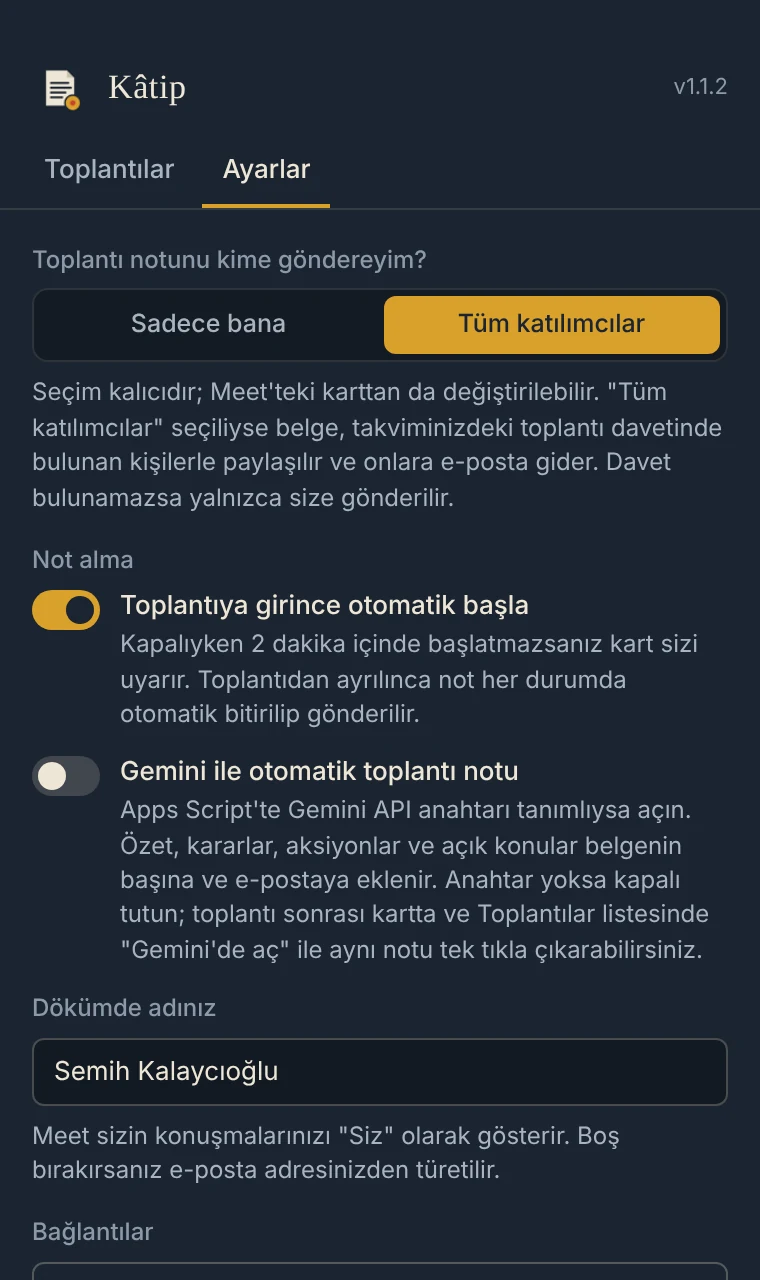
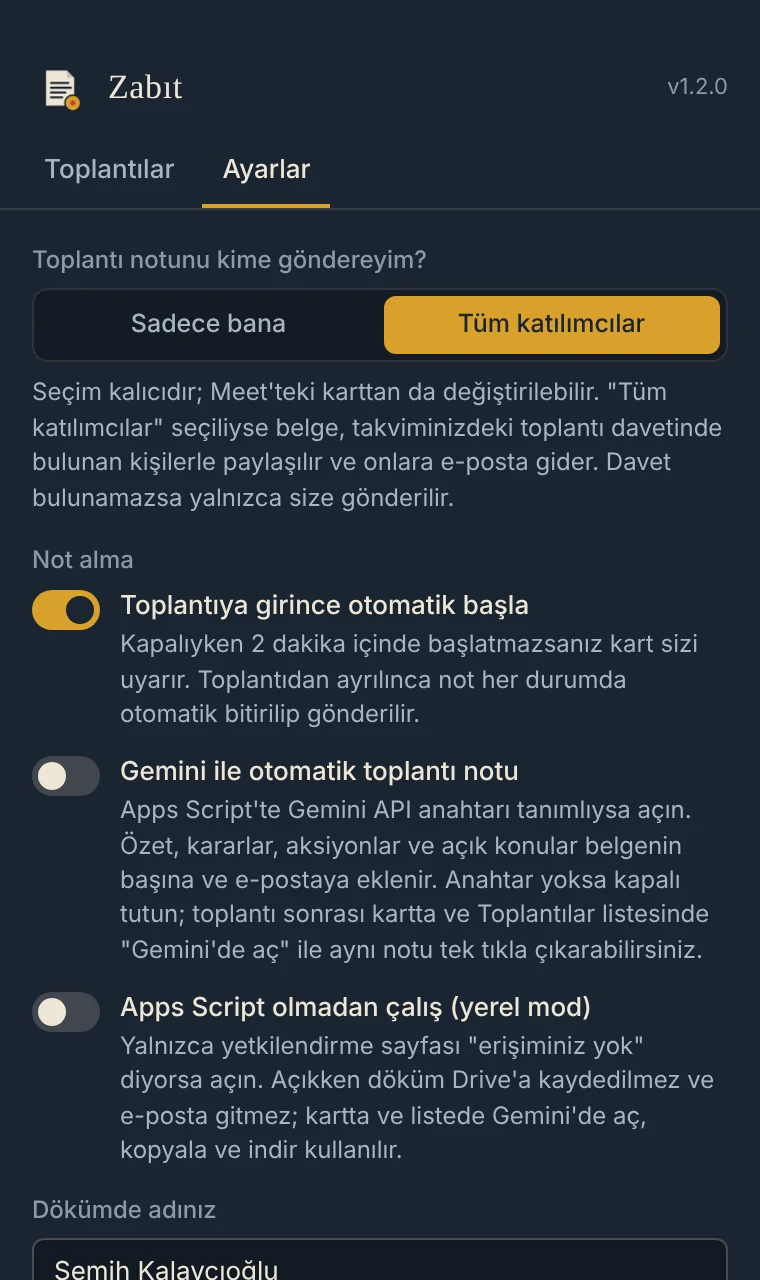
Katip > Zabıt

diff --git a/index.html b/index.html
@@ -3,12 +3,12 @@
 <head>
   <meta charset="utf-8">
   <meta name="viewport" content="width=device-width, initial-scale=1">
-  <title>Kâtip · Türkçe Meet toplantıları için otomatik döküm</title>
-  <meta name="description" content="Kâtip, Türkçe Google Meet toplantılarını altyazıdan yazıya döker, dökümü Drive'a kaydeder, size ya da katılımcılara gönderir ve tek tıkla Gemini'ye aktarır.">
-  <meta property="og:title" content="Kâtip · Türkçe Meet toplantıları için otomatik döküm">
+  <title>Zabıt · Türkçe Meet toplantılarının zabıt kâtibi</title>
+  <meta name="description" content="Zabıt, Türkçe Google Meet toplantılarını altyazıdan yazıya döker, dökümü Drive'a kaydeder, size ya da katılımcılara gönderir ve tek tıkla Gemini'ye aktarır.">
+  <meta property="og:title" content="Zabıt · Türkçe Meet toplantıları için otomatik döküm">
   <meta property="og:description" content="Meet altyazısından döküm, Drive'a kayıt, katılımcılara e-posta ve tek tıkla Gemini.">
-  <meta property="og:image" content="https://segelferd.github.io/katip/assets/og.png">
-  <meta property="og:url" content="https://segelferd.github.io/katip/">
+  <meta property="og:image" content="https://segelferd.github.io/zabit/assets/og.png">
+  <meta property="og:url" content="https://segelferd.github.io/zabit/">
   <meta name="twitter:card" content="summary_large_image">
   <link rel="icon" type="image/png" href="assets/favicon.png">
   <style>
@@ -123,7 +123,7 @@
 
 <header class="ust">
   <div class="kap">
-    <a class="marka" href="#"><img src="assets/icon128.png" alt=""><b>Kâtip</b></a>
+    <a class="marka" href="#"><img src="assets/icon128.png" alt=""><b>Zabıt</b></a>
     <nav class="menu" aria-label="Sayfa içi">
       <a href="#ozellikler">Özellikler</a>
       <a href="#nasil">Nasıl çalışır</a>
@@ -137,18 +137,18 @@
   <section class="kahraman">
     <div class="kap">
       <div>
-        <span class="rozet">Kurum içi · Davetle erişim · Chrome</span>
-        <h1>Türkçe toplantılarınızın <em>kâtibi</em></h1>
-        <p class="giris">Kâtip, Google Meet altyazısını konuşmacı ve saatle birlikte yazıya döker. Toplantıdan çıktığınız anda
+        <span class="rozet">Kurum içi · Bağlantıyla erişim · Chrome</span>
+        <h1>Türkçe toplantılarınızın <em>zabıt kâtibi</em></h1>
+        <p class="giris">Zabıt, Google Meet altyazısını konuşmacı ve saatle birlikte yazıya döker. Toplantıdan çıktığınız anda
           dökümü Drive'ınıza kaydeder, size ya da tüm katılımcılara gönderir ve tek tıkla Gemini'ye aktarır.</p>
         <div class="dugmeler">
           <a class="btn ana" href="#nasil">Nasıl kurulur</a>
           <a class="btn ikincil" href="gizlilik.html">Gizlilik politikası</a>
         </div>
-        <p class="not">Toplantıya bot eklemez, ses kaydı almaz. Yalnızca yetkilendirilmiş kullanıcılar kurabilir.</p>
+        <p class="not">Toplantıya bot eklemez, ses kaydı almaz. Mağazada listelenmez; kurulum bağlantısı ekibe ayrıca iletilir.</p>
       </div>
       <div class="cerceve"><img src="assets/sahne-kayit.webp" width="1600" height="1000"
-        alt="Meet toplantısında sağ üstte Kâtip kartı: canlı döküm, önemli an ve not ekleme düğmeleri"></div>
+        alt="Meet toplantısında sağ üstte Zabıt kartı: canlı döküm, önemli an ve not ekleme düğmeleri"></div>
     </div>
   </section>
 
@@ -157,7 +157,7 @@
       <div class="ust-baslik">
         <span class="etiket">Özellikler</span>
         <h2>Not tutmayı bırakın, <em>toplantıya odaklanın</em></h2>
-        <p>Meet'in kendi not alma özelliği Türkçe toplantıları desteklemiyor. Kâtip bu boşluk için yapıldı.</p>
+        <p>Meet'in kendi not alma özelliği Türkçe toplantıları desteklemiyor. Zabıt bu boşluk için yapıldı.</p>
       </div>
       <div class="ozellikler">
         <div class="ozellik"><div class="simge"><svg viewBox="0 0 24 24" fill="none" stroke="currentColor" stroke-width="2" stroke-linecap="round"><path d="M4 6h16M4 12h10M4 18h13"/></svg></div>
@@ -190,14 +190,14 @@
           </ul>
         </div>
         <div class="gorsel"><div class="cerceve dar"><img src="assets/kart-kayit.webp" width="576" height="1037" loading="lazy"
-          alt="Kayıt sırasında Kâtip kartı: süre, cümle ve işaret sayısı, dil satırı, canlı döküm"></div></div>
+          alt="Kayıt sırasında Zabıt kartı: süre, cümle ve işaret sayısı, dil satırı, canlı döküm"></div></div>
       </div>
 
       <div class="vitrin ters">
         <div>
           <span class="etiket">Toplantıdan sonra</span>
           <h3>Belge Drive'da, bağlantı gelen kutusunda</h3>
-          <p>Döküm, Drive'ınızdaki "Kâtip Toplantı Dökümleri" klasörüne Google Doküman olarak kaydedilir.</p>
+          <p>Döküm, Drive'ınızdaki "Zabıt Toplantı Dökümleri" klasörüne Google Doküman olarak kaydedilir.</p>
           <ul>
             <li>Belgenin başında Gemini için altı hazır komut</li>
             <li>Önemli anlar ve notlarınız dökümde vurgulu</li>
@@ -212,7 +212,7 @@
         <div>
           <span class="etiket">Toplantı listesi</span>
           <h3>Son 20 toplantınız tek yerde</h3>
-          <p>Kâtip simgesine tıklayınca toplantılarınız, gönderim durumu ve belge bağlantısıyla listelenir.</p>
+          <p>Zabıt simgesine tıklayınca toplantılarınız, gönderim durumu ve belge bağlantısıyla listelenir.</p>
           <ul>
             <li>Bir toplantıyı sonradan kendinize ya da herkese yeniden gönderin</li>
             <li>Seçtiğiniz komutla doğrudan Gemini'de açın</li>
@@ -220,7 +220,7 @@
           </ul>
         </div>
         <div class="gorsel"><div class="cerceve orta kirp"><img src="assets/popup-liste.webp" width="760" height="1200" loading="lazy"
-          alt="Kâtip açılır penceresinde toplantı listesi"></div></div>
+          alt="Zabıt açılır penceresinde toplantı listesi"></div></div>
       </div>
 
       <div class="vitrin ters">
@@ -234,7 +234,7 @@
           </ul>
         </div>
         <div class="gorsel"><div class="cerceve orta kirp"><img src="assets/popup-ayarlar.webp" width="760" height="1280" loading="lazy"
-          alt="Kâtip ayarlar sekmesi"></div></div>
+          alt="Zabıt ayarlar sekmesi"></div></div>
       </div>
     </div>
   </section>
@@ -244,11 +244,11 @@
       <div class="ust-baslik">
         <span class="etiket">Nasıl çalışır</span>
         <h2>Kurulum <em>iki dakika</em></h2>
-        <p>Kâtip davetle erişilen özel bir Chrome Web Store öğesidir. Bağlantıyı ekip yöneticinizden alın.</p>
+        <p>Zabıt Chrome Web Store'da listelenmez. Kurulum bağlantısını ve kılavuzu ekip yöneticinizden alın.</p>
       </div>
       <div class="adimlar">
         <div class="adim"><h3>Eklentiyi kurun</h3><p>Size iletilen mağaza bağlantısını kurum hesabınızla açıp Chrome'a ekleyin.</p></div>
-        <div class="adim"><h3>Bir kez yetki verin</h3><p>Kâtip simgesine sağ tıklayın, "Yetkilendirme sayfasını aç" deyin ve izinleri onaylayın.</p></div>
+        <div class="adim"><h3>Bir kez yetki verin</h3><p>Zabıt simgesine sağ tıklayın, "Yetkilendirme sayfasını aç" deyin ve izinleri onaylayın.</p></div>
         <div class="adim"><h3>Toplantıya girin</h3><p>Meet'te altyazıyı Türkçe açın, kartta "Not almaya başla"ya basın ya da otomatik başlatmayı açın.</p></div>
         <div class="adim"><h3>Ayrılın</h3><p>Not kendiliğinden biter; belge Drive'ınızda, bağlantı e-postanızda.</p></div>
       </div>
@@ -276,10 +276,10 @@
       <div class="ust-baslik"><span class="etiket">SSS</span><h2>Sık sorulanlar</h2></div>
       <div class="sss">
         <details><summary>Neden Meet'in kendi Gemini notlarını kullanmıyoruz?</summary>
-          <p>Meet'in otomatik not alma özelliği Türkçe toplantıları desteklemiyor. Kâtip, Türkçe altyazıdan döküm çıkarıp
+          <p>Meet'in otomatik not alma özelliği Türkçe toplantıları desteklemiyor. Zabıt, Türkçe altyazıdan döküm çıkarıp
             notu Gemini'ye hazır komutla taşıyarak bu boşluğu kapatır. Türkçe olmayan toplantılarda Meet'in kendi notları kullanılabilir.</p></details>
-        <details><summary>Toplantıdaki diğer kişiler Kâtip'i görür mü?</summary>
-          <p>Hayır. Kâtip toplantıya katılımcı eklemez; yalnızca sizin tarayıcınızda çalışır. Yine de not aldığınızı katılımcılara
+        <details><summary>Toplantıdaki diğer kişiler Zabıt'ı görür mü?</summary>
+          <p>Hayır. Zabıt toplantıya katılımcı eklemez; yalnızca sizin tarayıcınızda çalışır. Yine de not aldığınızı katılımcılara
             söylemeniz iyi bir uygulamadır.</p></details>
         <details><summary>Döküm ne kadar doğru?</summary>
           <p>Meet'in otomatik altyazısı kadar. Noktalama eksik olabilir, özel isim ve rakamlarda hata olabilir. Hazır komutlar
@@ -288,11 +288,15 @@
           <p>Takviminizdeki toplantı davetinde bulunan ve daveti reddetmemiş kişileri. Toplantı odaları dahil edilmez. Davet
             bulunamazsa döküm yalnızca size gönderilir.</p></details>
         <details><summary>Altyazıyı açmayı unutursam?</summary>
-          <p>Kâtip başladığında altyazıyı açmayı dener ve kartta "Altyazı bekleniyor" uyarısı gösterir. Altyazı dili Türkçe
+          <p>Zabıt başladığında altyazıyı açmayı dener ve kartta "Altyazı bekleniyor" uyarısı gösterir. Altyazı dili Türkçe
             değilse kart bunu da söyler.</p></details>
         <details><summary>Eklentiyi kimler kurabilir?</summary>
-          <p>Kâtip Chrome Web Store'da özel olarak yayınlanır; yalnızca yetkili kullanıcı grubundaki hesaplar kurabilir.
-            Döküm servisi de yalnızca kurum hesaplarına açıktır.</p></details>
+          <p>Zabıt Chrome Web Store'da listelenmez, yalnızca bağlantıyla açılır. Döküm servisi (Apps Script) yalnızca kurum
+            hesaplarına açıktır.</p></details>
+        <details><summary>Apps Script erişimim yoksa ne olur?</summary>
+          <p>Yetkilendirme sayfası "erişiminiz yok" diyorsa Zabıt bunu kartta söyler. Ayarlar'dan "Apps Script olmadan çalış"ı
+            açarsanız döküm hiçbir yere gönderilmez; canlı döküm, önemli an, not, Gemini'de aç, kopyalama ve indirme çalışmaya devam eder.
+            Drive'a kayıt ve e-posta bu modda yapılmaz.</p></details>
       </div>
     </div>
   </section>
@@ -300,7 +304,7 @@
 
 <footer>
   <div class="kap">
-    <span>Kâtip · segelferd</span>
+    <span>Zabıt · segelferd</span>
     <nav aria-label="Alt bağlantılar">
       <a href="gizlilik.html">Gizlilik</a>
       <a href="mailto:semih.kalaycioglu@outlook.com">İletişim</a>

diff --git a/gizlilik.html b/gizlilik.html
@@ -3,7 +3,7 @@
 <head>
   <meta charset="utf-8">
   <meta name="viewport" content="width=device-width, initial-scale=1">
-  <title>Kâtip Gizlilik Politikası</title>
+  <title>Zabıt Gizlilik Politikası</title>
   <style>
     :root { --zemin: #FAF8F3; --yazi: #1B2430; --soluk: #5B6573; --vurgu: #A8761A; --cizgi: #E4DED1; }
     @media (prefers-color-scheme: dark) {
@@ -30,10 +30,10 @@
 </head>
 <body>
 <main>
-  <h1>Kâtip Gizlilik Politikası</h1>
-  <p class="tarih">Son güncelleme: 5 Kasım 2026 · Sürüm 1.1.2</p>
+  <h1>Zabıt Gizlilik Politikası</h1>
+  <p class="tarih">Son güncelleme: 6 Kasım 2026 · Sürüm 1.2.0</p>
 
-  <p>Kâtip, Google Meet toplantılarında kullanıcının ekranında görünen canlı altyazıyı yazıya döken bir Chrome
+  <p>Zabıt, Google Meet toplantılarında kullanıcının ekranında görünen canlı altyazıyı yazıya döken bir Chrome
     eklentisidir. Kurum içi kullanım için hazırlanmıştır ve yalnızca yetkilendirilmiş kullanıcılara açıktır.
     Bu sayfa eklentinin hangi verileri, nerede ve ne amaçla işlediğini açıklar.</p>
 
@@ -60,6 +60,7 @@
     <li><strong>Tarayıcının yerel depolaması:</strong> ayarlar ve son 20 toplantının listesi (döküm dahil) yalnızca kullanıcının bilgisayarında tutulur. Kullanıcı listeden istediği kaydı silebilir; eklenti kaldırılınca tümü silinir.</li>
     <li><strong>Google Apps Script:</strong> toplantı bitince döküm, kullanıcının kendi Google hesabıyla çalışan bir Apps Script web uygulamasına iletilir. Veri adresin <code>#</code> bölümünde taşınır; bu bölüm tarayıcıdan sunucu günlüklerine gönderilmez.</li>
     <li><strong>Google Drive ve Gmail:</strong> döküm kullanıcının kendi Drive'ında Google Doküman olarak oluşturulur ve kullanıcının kendi hesabından e-postayla gönderilir. Kullanıcı "Tüm katılımcılar" seçerse belge davetlilerle okuyucu olarak paylaşılır.</li>
+    <li><strong>Yerel mod:</strong> kullanıcı "Apps Script olmadan çalış" seçeneğini açarsa döküm hiçbir yere gönderilmez; yalnızca tarayıcının yerel depolamasında kalır.</li>
     <li><strong>Gemini:</strong> yalnızca kullanıcı "Gemini'de aç" düğmesine bastığında, seçilen komut ve döküm kullanıcının kendi hesabındaki gemini.google.com giriş kutusuna yazılır. Mesajı göndermek kullanıcıya kalır.</li>
   </ul>
   <p>Google hizmetlerinde işlenen veriler, kullanıcının bağlı olduğu Google hesabı ya da Google Workspace sözleşmesinin koşullarına tabidir.</p>
@@ -77,9 +78,9 @@
 
   <hr>
 
-  <h1>Kâtip Privacy Policy</h1>
-  <p class="tarih">Last updated: November 5, 2026 · Version 1.1.2</p>
-  <p>Kâtip is a Chrome extension that turns the live captions shown on the user's own screen in Google Meet into a
+  <h1>Zabıt Privacy Policy</h1>
+  <p class="tarih">Last updated: November 6, 2026 · Version 1.2.0</p>
+  <p>Zabıt is a Chrome extension that turns the live captions shown on the user's own screen in Google Meet into a
     transcript. It is built for internal use and is available only to authorized users.</p>
   <ul>
     <li>No bot joins the call and no audio is recorded. Nothing is collected until the user starts note-taking (or enables auto-start).</li>

diff --git a/README.md b/README.md
@@ -1,22 +1,24 @@
 <p align="center">
-  <img src="assets/icon128.png" width="96" height="96" alt="Kâtip">
+  <img src="assets/icon128.png" width="96" height="96" alt="Zabıt">
 </p>
 
-<h1 align="center">Kâtip</h1>
-
-<p align="center">
-  Türkçe Google Meet toplantıları için otomatik döküm ve not.<br>
-  <a href="https://segelferd.github.io/katip/">Tanıtım sayfası</a> ·
-  <a href="https://segelferd.github.io/katip/gizlilik.html">Gizlilik politikası</a>
-</p>
+<h1 align="center">Zabıt</h1>
 
 <p align="center">
-  <img src="assets/sahne-kayit.webp" width="820" alt="Meet toplantısında Kâtip kartı">
+  Türkçe Google Meet toplantılarının zabıt kâtibi: otomatik döküm ve not.<br>
+  <a href="https://segelferd.github.io/zabit/">Tanıtım sayfası</a> ·
+  <a href="https://segelferd.github.io/zabit/gizlilik.html">Gizlilik politikası</a>
 </p>
+
+<p align="center">
+  <img src="assets/sahne-kayit.webp" width="820" alt="Meet toplantısında Zabıt kartı">
+</p>
+
+> Eski adı: Kâtip
 
 ## Nedir
 
-Kâtip, Google Meet'in sizin ekranınızda gösterdiği altyazıyı konuşmacı ve saatle birlikte yazıya döken bir Chrome eklentisidir. Toplantıdan ayrıldığınızda dökümü Google Drive'ınıza Google Doküman olarak kaydeder, size ya da takvim davetindeki tüm katılımcılara e-postayla gönderir ve tek tıkla Gemini'ye aktarır.
+Zabıt, Google Meet'in sizin ekranınızda gösterdiği altyazıyı konuşmacı ve saatle birlikte yazıya döken bir Chrome eklentisidir. Toplantıdan ayrıldığınızda dökümü Google Drive'ınıza Google Doküman olarak kaydeder, size ya da takvim davetindeki tüm katılımcılara e-postayla gönderir ve tek tıkla Gemini'ye aktarır.
 
 Meet'in kendi not alma özelliği Türkçe toplantıları desteklemediği için yapıldı.
 
@@ -32,6 +34,7 @@ Meet'in kendi not alma özelliği Türkçe toplantıları desteklemediği için 
 | **Gemini'de aç** | 6 hazır komut: toplantı notu, aksiyon listesi, katılımcı özeti, karar kaydı, riskler, konuşmacı bazlı taahhütler |
 | **Toplantı listesi** | Son 20 toplantı; sonradan yeniden gönderme |
 | **Dil göstergesi** | Altyazı Türkçe değilse uyarı |
+| **Yerel mod** | Apps Script erişimi olmayan hesaplarda gönderimsiz çalışma |
 
 ## Gizlilik
 
@@ -39,11 +42,11 @@ Meet'in kendi not alma özelliği Türkçe toplantıları desteklemediği için 
 - Üçüncü taraf sunucu yoktur; veri yalnızca Google hizmetlerinde ve kullanıcının kendi hesabı altında işlenir.
 - Kullanıcı başlatmadan (ya da otomatik başlatmayı açmadan) hiçbir şey toplanmaz.
 
-Ayrıntılar: [gizlilik politikası](https://segelferd.github.io/katip/gizlilik.html)
+Ayrıntılar: [gizlilik politikası](https://segelferd.github.io/zabit/gizlilik.html)
 
 ## Erişim
 
-Kâtip kurum içi kullanım için hazırlanmıştır ve Chrome Web Store'da **özel** olarak yayınlanır. Yalnızca yetkili kullanıcı grubundaki hesaplar kurabilir. Bu depo yalnızca tanıtım ve gizlilik sayfalarını içerir; eklentinin kaynak kodu burada yayınlanmaz.
+Zabıt kurum içi kullanım için hazırlanmıştır. Chrome Web Store'da listelenmez, yalnızca ekibe iletilen bağlantıyla kurulur. Döküm servisi yalnızca kurum hesaplarına açıktır. Bu depo yalnızca tanıtım ve gizlilik sayfalarını içerir; eklentinin kaynak kodu burada yayınlanmaz.
 
 ## İletişim
 
@@ -51,4 +54,4 @@ semih.kalaycioglu@outlook.com
 
 ---
 
-<sub>Kâtip, Google'a ait değildir ve Google tarafından onaylanmamıştır. Google Meet, Google Drive ve Gemini Google LLC'nin markalarıdır.</sub>
+<sub>Zabıt, Google'a ait değildir ve Google tarafından onaylanmamıştır. Google Meet, Google Drive ve Gemini Google LLC'nin markalarıdır.</sub>
